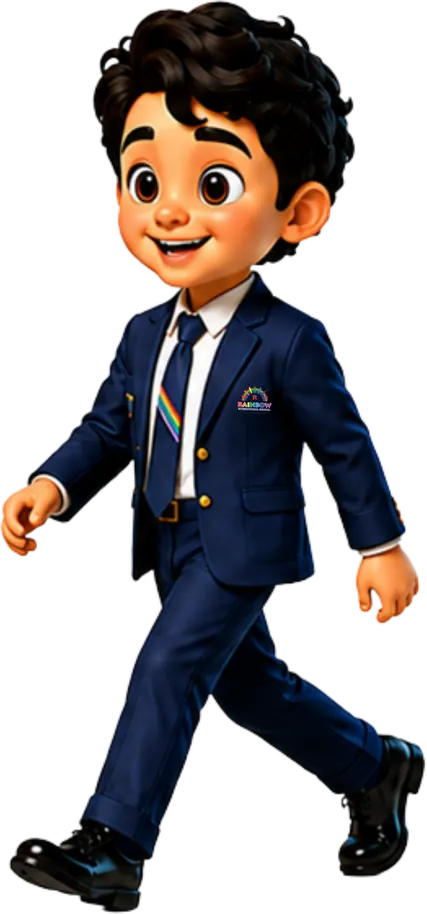
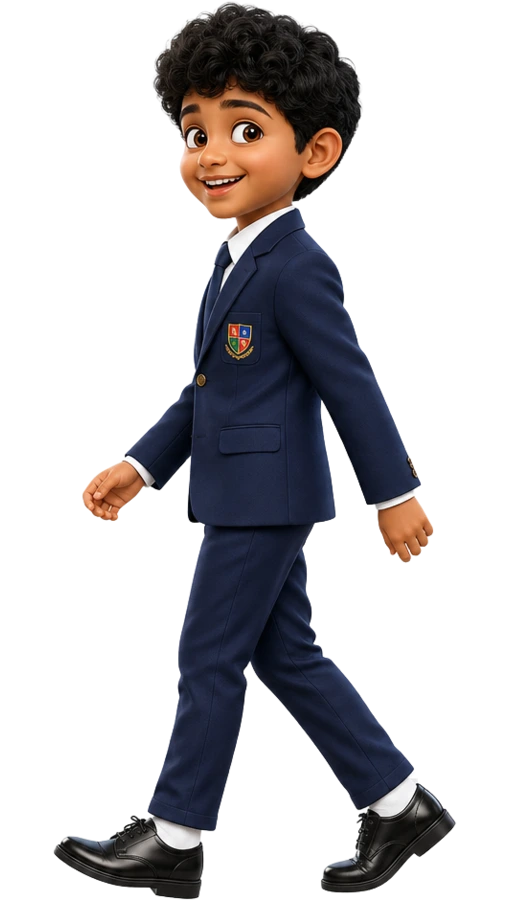
Update Raksha Bandhan 2026 blog assets and character animation sequence
Replit-Commit-Author: Agent

diff --git a/client/public/blog-assets/raksha-bandhan-2026/raksha-bandhan-2026.js b/client/public/blog-assets/raksha-bandhan-2026/raksha-bandhan-2026.js
@@ -79,7 +79,8 @@
   var kBoy = katha ? katha.querySelector('[data-katha-side="boy"]') : null;
   function kFrame(id) { return katha ? katha.querySelector('[data-katha-frame="' + id + '"]') : null; }
   var sWalk = [kFrame("s_w1"), kFrame("s_w2"), kFrame("s_w3")];
-  var bWalk = [kFrame("b_w1"), kFrame("b_w2"), kFrame("b_w3")];
+  /* Boy walk alternates planted right / passing / planted left / passing. */
+  var bWalk = [kFrame("b_w1"), kFrame("b_w2"), kFrame("b_w3"), kFrame("b_w4")];
   var sLean = kFrame("s_lean"), sRakhi = kFrame("s_rakhi");
   var bKnee = kFrame("b_knee"), bWait = kFrame("b_wait");
   var kGlow = katha ? katha.querySelector(".rb-katha-glow") : null;
@@ -94,7 +95,7 @@
         { el: katha.querySelector(".rb-kcap-4"), a: 0.78, b: 0.98 }
       ].filter(function (c) { return !!c.el; })
     : [];
-  var kSprites = [sWalk[0], sWalk[1], sWalk[2], bWalk[0], bWalk[1], bWalk[2], sLean, sRakhi, bKnee, bWait, kGiftArt, kNamasteArt];
+  var kSprites = [sWalk[0], sWalk[1], sWalk[2], bWalk[0], bWalk[1], bWalk[2], bWalk[3], sLean, sRakhi, bKnee, bWait, kGiftArt, kNamasteArt];
   var kathaReady = !!(katha && kStage && kKids && kSis && kBoy && !reduced &&
     kSprites.every(function (el) { return !!el; }));
   var kathaLive = false;
@@ -183,9 +184,9 @@
     var approach = smooth(clamp(q / 0.24, 0, 1));
     var offPx = (1 - approach) * window.innerWidth * 0.6;
     var traveled = approach * window.innerWidth * 0.6;
-    var stepIdx = Math.floor(traveled / 90) % 3;
+    var stepPhase = traveled / 118;
     var walking = 1 - smooth(clamp((q - 0.235) / 0.035, 0, 1));
-    var stepBob = -Math.abs(Math.sin(traveled / 90 * Math.PI)) * 8 * walking;
+    var stepBob = -Math.abs(Math.sin(stepPhase * Math.PI)) * 8 * walking;
     var pairOpacity = 1 - smooth(clamp((q - 0.335) / 0.055, 0, 1));
 
     kSis.style.transform = "translate3d(" + (-offPx).toFixed(1) + "px," + stepBob.toFixed(1) + "px,0)";
@@ -193,11 +194,19 @@
     kSis.style.opacity = pairOpacity.toFixed(3);
     kBoy.style.opacity = pairOpacity.toFixed(3);
 
-    for (var i = 0; i < 3; i++) {
-      var on = i === stepIdx ? walking : 0;
-      sWalk[i].style.opacity = on;
-      bWalk[i].style.opacity = on;
+    /* Crossfade contiguous poses as scroll advances. The sister keeps her
+       existing three frames; the boy uses a four-pose alternating-leg cycle. */
+    function setWalkCycle(frames, phase) {
+      var from = Math.floor(phase) % frames.length;
+      var to = (from + 1) % frames.length;
+      var mix = smooth(phase - Math.floor(phase));
+      for (var i = 0; i < frames.length; i++) {
+        var opacity = i === from ? 1 - mix : (i === to ? mix : 0);
+        frames[i].style.opacity = (opacity * walking).toFixed(3);
+      }
     }
+    setWalkCycle(sWalk, stepPhase);
+    setWalkCycle(bWalk, stepPhase);
     /* kneel transitions: lean / one knee, then rakhi-out and settled */
     function win2(a, b) { return smooth(clamp((q - a) / 0.03, 0, 1)) * (1 - smooth(clamp((q - b) / 0.03, 0, 1))); }
     sLean.style.opacity = win2(0.245, 0.30).toFixed(3);

diff --git a/server/ssrRakshaBandhan2026.ts b/server/ssrRakshaBandhan2026.ts
@@ -15,8 +15,9 @@ const KATHA_SIS_FRAMES = [
 ] as const;
 const KATHA_BOY_FRAMES = [
   ["b_w1", "76.0%"],
-  ["b_w2", "77.18%"],
-  ["b_w3", "73.21%"],
+  ["b_w2", "76.0%"],
+  ["b_w3", "76.0%"],
+  ["b_w4", "76.0%"],
   ["b_knee", "73.97%"],
   ["b_wait", "75.16%"]
 ] as const;
